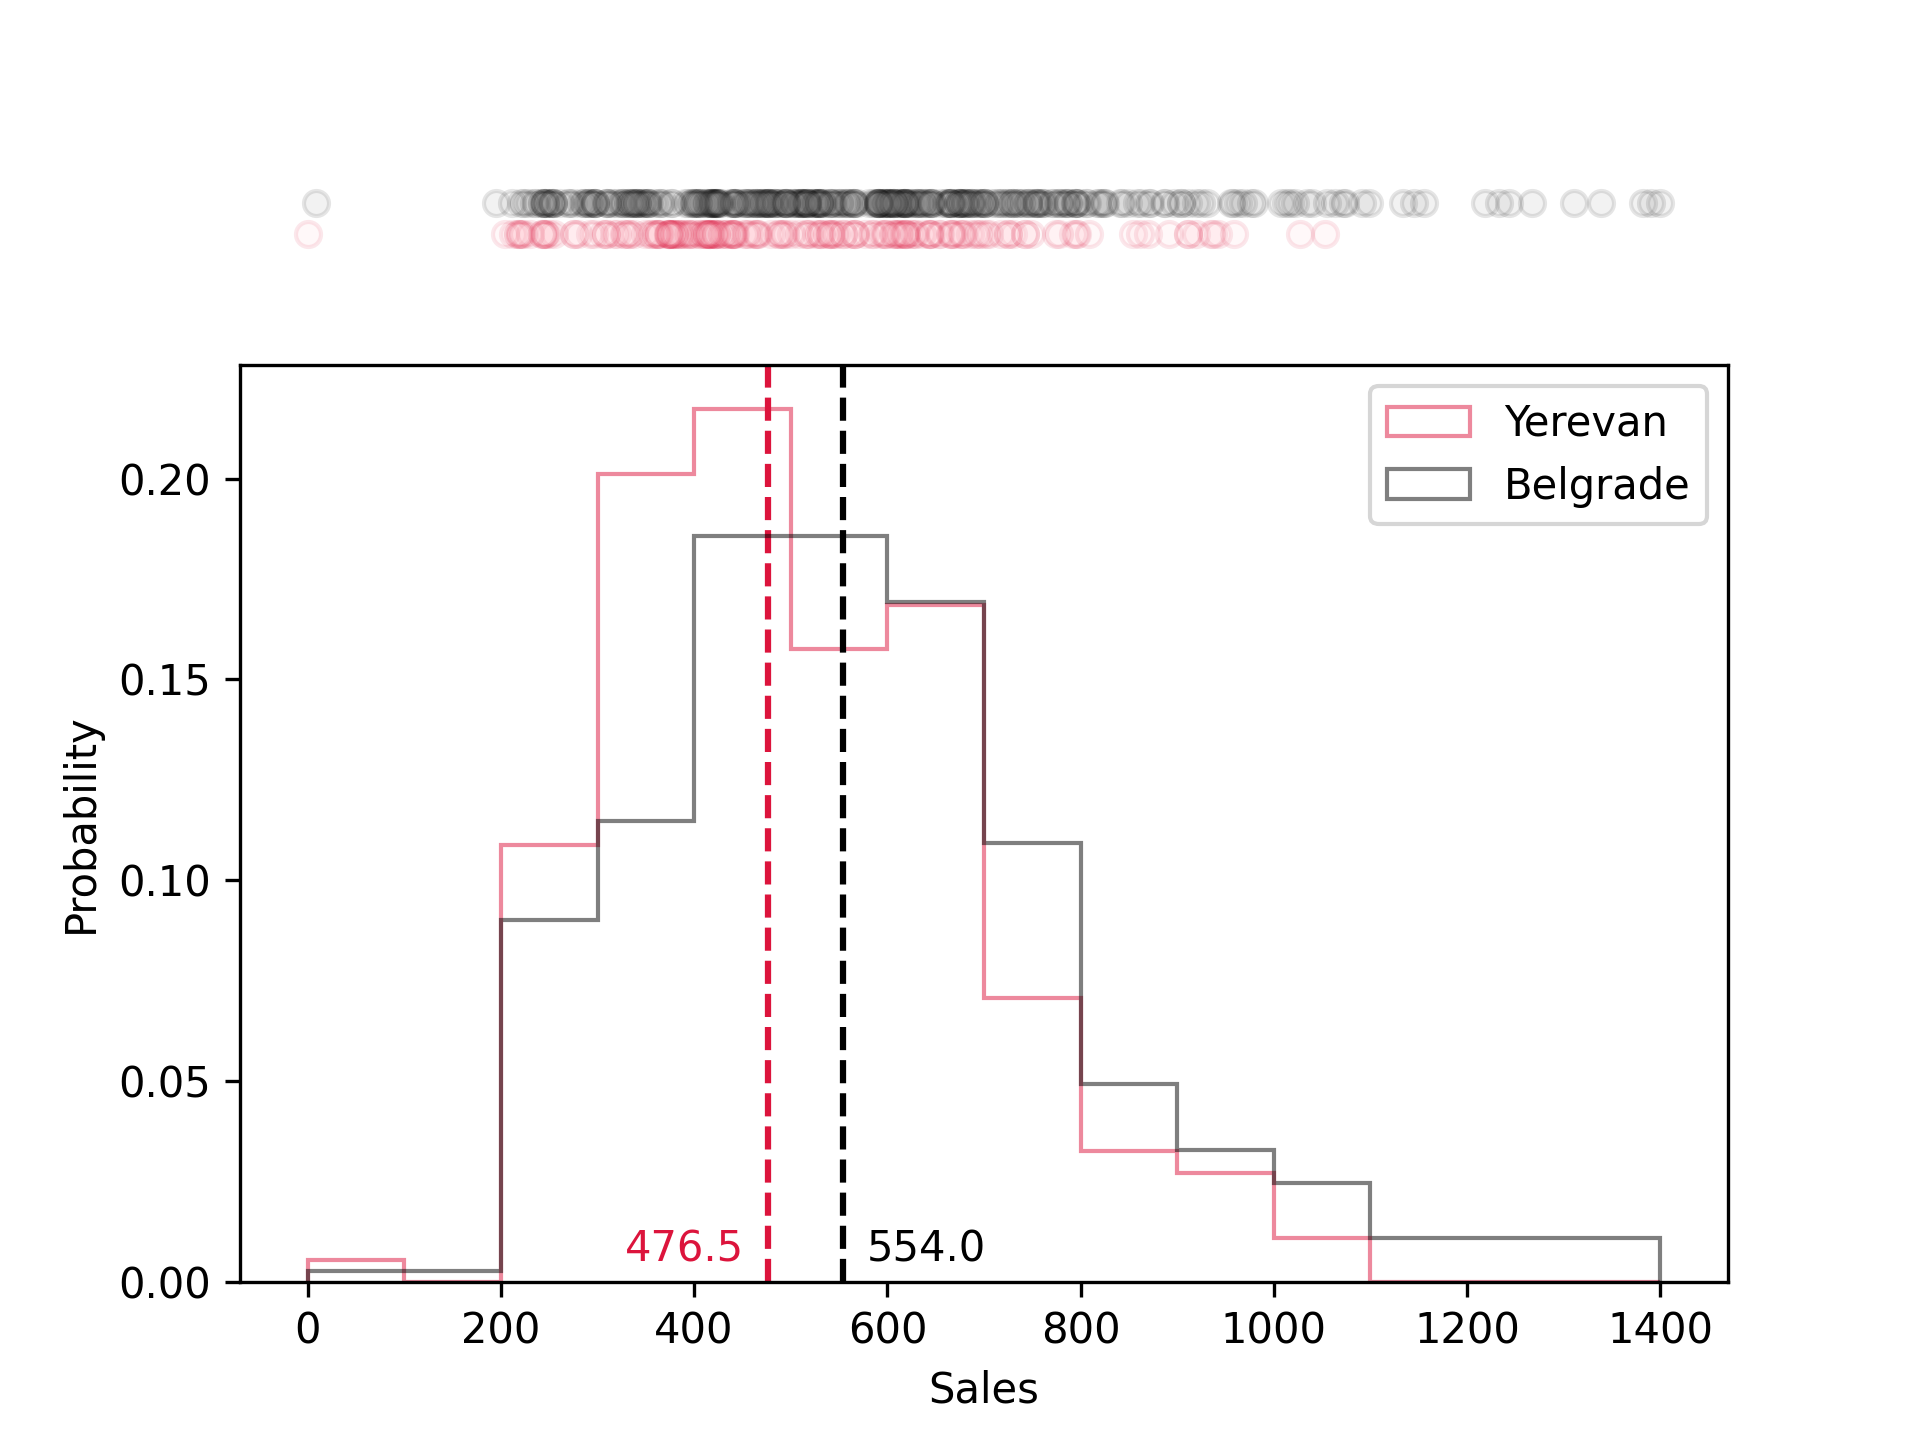
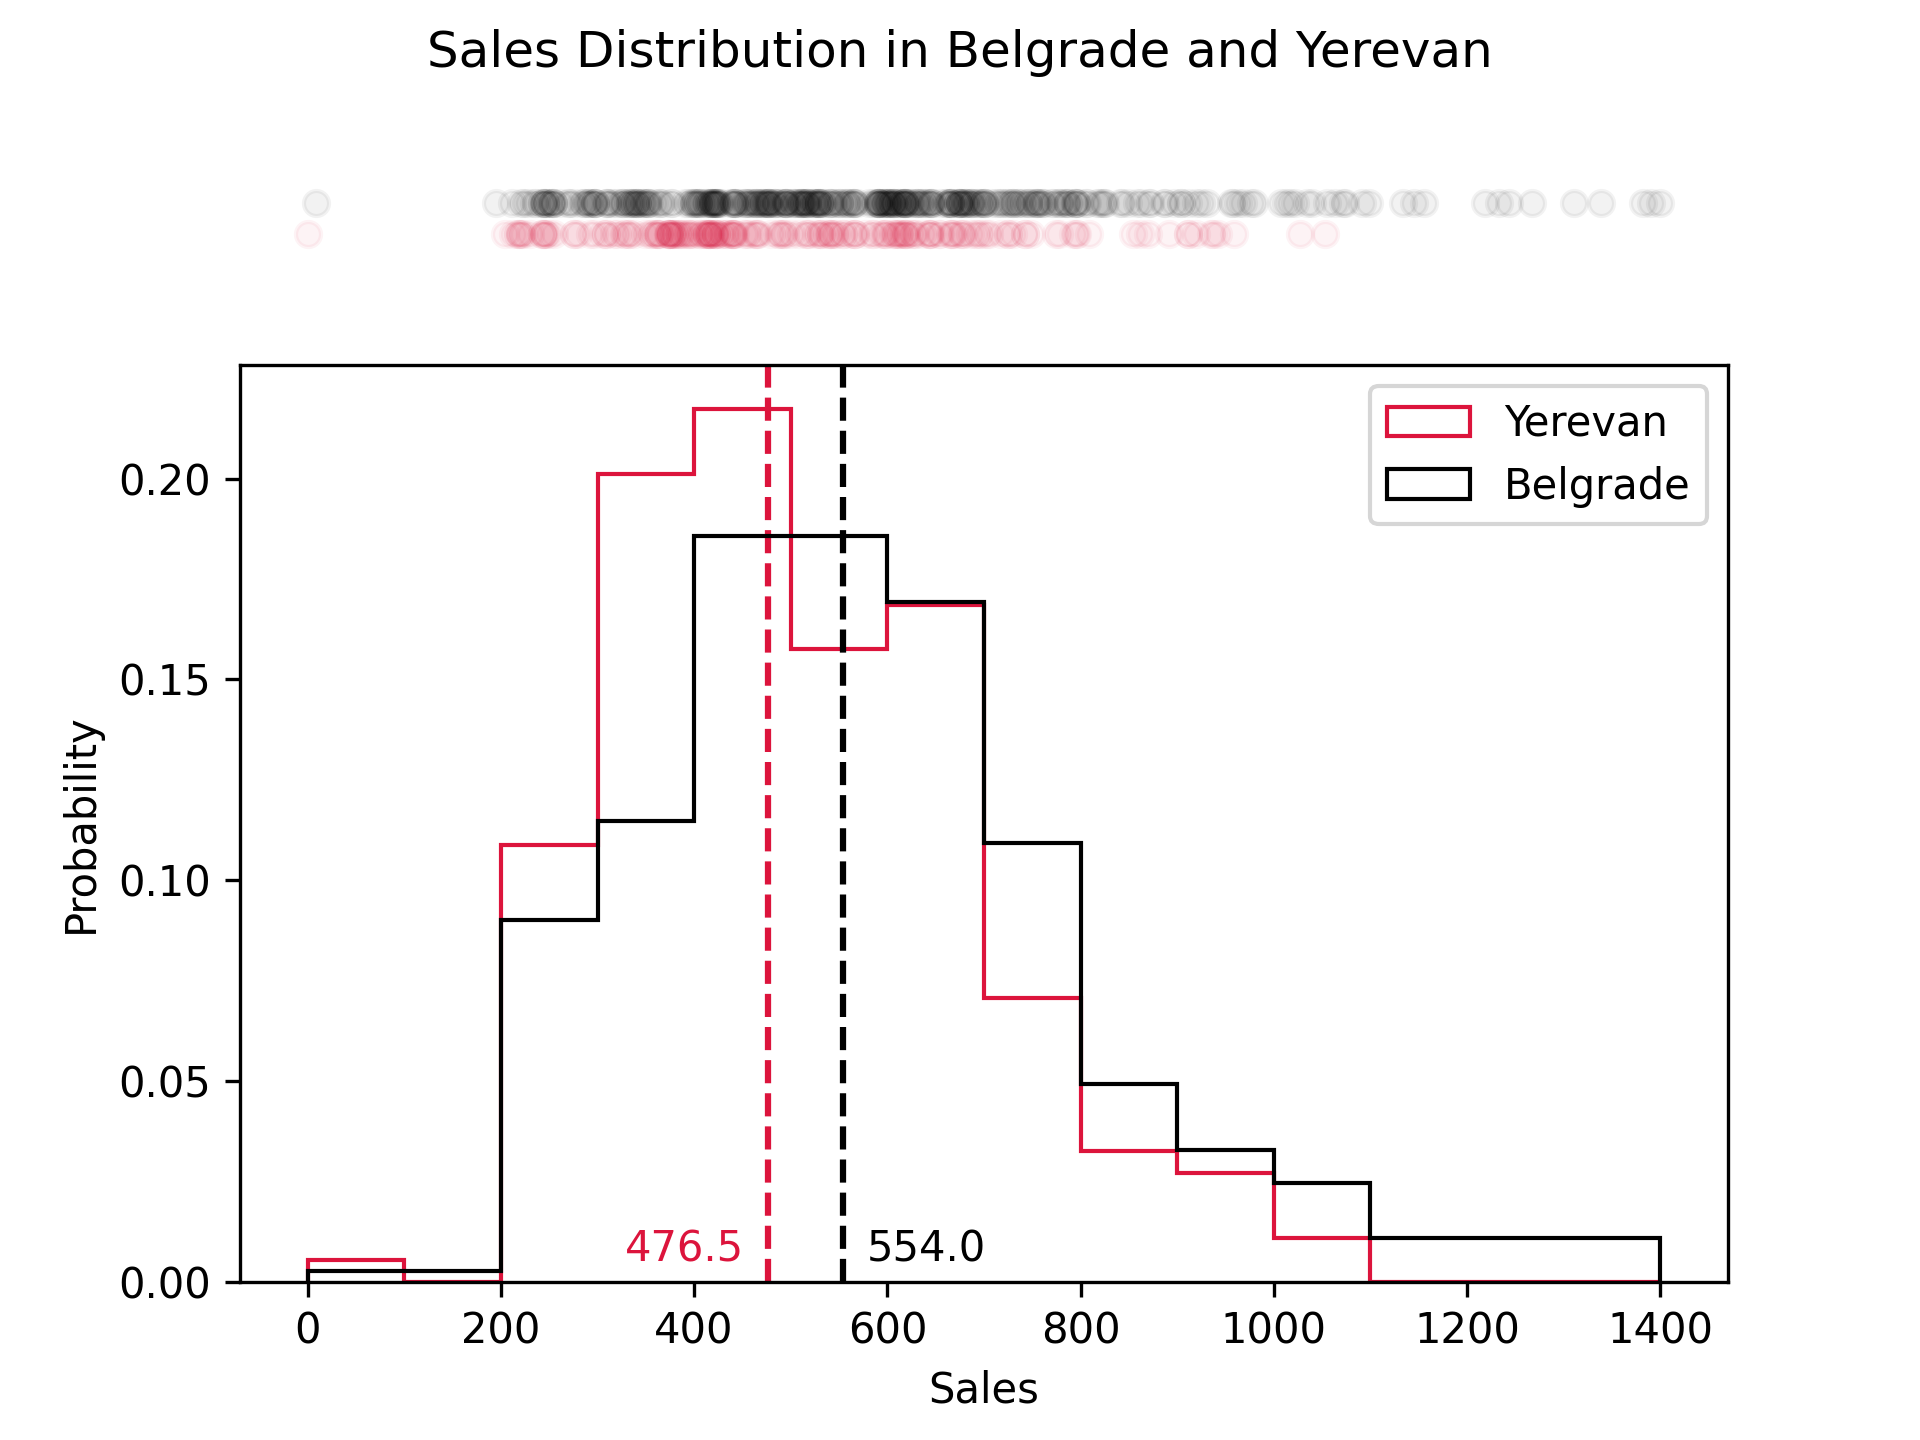
remove: unused variables fix: typing issues update: task

diff --git a/3_2_histograms_matplotlib/2_practice/2_advanced_hist/tests/test_task.py b/3_2_histograms_matplotlib/2_practice/2_advanced_hist/tests/test_task.py
@@ -36,7 +36,7 @@ class PlotTestCase(
 ):
     data: ClassVar[pd.DataFrame]
     fig: ClassVar[plt.Figure]
-    bins: ClassVar[np.ndarray]
+    bins: ClassVar[list]
 
     @classmethod
     def setUpClass(cls):
@@ -47,10 +47,6 @@ class PlotTestCase(
         cls.cities = ["Yerevan", "Belgrade"]
         cls.bins = get_bins(data)
         cls.color_map = {
-            "Yerevan": "pink",
-            "Belgrade": "grey",
-        }
-        cls.edge_color_map = {
             "Yerevan": "crimson",
             "Belgrade": "black",
         }
@@ -104,7 +100,7 @@ class PlotTestCase(
 
     def test_2_2_scatter_transparency(self):
         for collection_number in range(len(self.cities)):
-            self.checkCollectionTransparency(self.fig.axes[0], expected_alpha=0.1, collection_number=collection_number)
+            self.checkCollectionTransparency(self.fig.axes[0], expected_alpha=0.05, collection_number=collection_number)
 
     def test_2_3_scatter_spines(self):
         self.checkSpineVisibility(self.fig.axes[0], position="top", expected_visibility=False)
@@ -131,7 +127,7 @@ class PlotTestCase(
         for patch_number in range(len(self.cities)):
             self.checkBarBins(
                 self.fig.axes[1],
-                expected_bins=self.bins.tolist(),
+                expected_bins=self.bins,
                 container_number=patch_number,
                 histtype="step",
             )
@@ -152,14 +148,10 @@ class PlotTestCase(
         for patch_number in range(len(self.cities)):
             self.checkBarTransparency(
                 self.fig.axes[1],
-                expected_alpha=0.5,
+                expected_alpha=1,
                 container_number=patch_number,
                 histtype="step",
             )
-
-    def test_3_4_bar_legend(self):
-        self.checkLegendExists(self.fig.axes[1])
-        self.checkLegendLabels(self.fig.axes[1], expected_labels=self.cities)
 
     def test_4_1_lines_coordinate(self):
         for line_number, city in enumerate(self.cities):
@@ -182,7 +174,7 @@ class PlotTestCase(
 
     def test_4_4_lines_colors(self):
         for line_number, city in enumerate(self.cities):
-            self.checkLineColor(self.fig.axes[1], expected_color=self.edge_color_map[city], line_number=line_number)
+            self.checkLineColor(self.fig.axes[1], expected_color=self.color_map[city], line_number=line_number)
 
     def test_5_1_text_objects_number(self):
         self.checkNumberOfTextObjects(self.fig.axes[1], expected_number=2)
@@ -202,7 +194,7 @@ class PlotTestCase(
         for text_number, city in enumerate(self.cities):
             self.checkTextObjectColor(
                 self.fig.axes[1],
-                expected_color=self.edge_color_map[city],
+                expected_color=self.color_map[city],
                 text_number=text_number,
             )
 
@@ -214,7 +206,7 @@ class PlotTestCase(
                 text_number=text_number,
             )
 
-    def test_6_1_bar_colors(self):
+    def test_6_bar_colors(self):
         for patch_number, city in enumerate(self.cities):
             self.checkBarColor(
                 self.fig.axes[1],
@@ -223,15 +215,13 @@ class PlotTestCase(
                 histtype="step",
             )
 
-    def test_6_2_bar_edge_colors(self):
-        for patch_number, city in enumerate(self.cities):
-            self.checkHistEdgeColor(
-                self.fig.axes[1],
-                expected_edgecolors=self.edge_color_map[city],
-                container_number=patch_number,
-                histtype="step",
-            )
-
     def test_7_labels(self):
         self.checkLabel(self.fig.axes[1], expected_label="Sales", axis="x")
         self.checkLabel(self.fig.axes[1], expected_label="Probability", axis="y")
+
+    def test_8_title(self):
+        self.checkSupTitle(self.fig, expected_suptitle="Sales Distribution in Belgrade and Yerevan")
+
+    def test_9_bar_legend(self):
+        self.checkLegendExists(self.fig.axes[1])
+        self.checkLegendLabels(self.fig.axes[1], expected_labels=self.cities)

diff --git a/3_2_histograms_matplotlib/2_practice/2_advanced_hist/task.py b/3_2_histograms_matplotlib/2_practice/2_advanced_hist/task.py
@@ -8,11 +8,6 @@ def plot(sales: pd.DataFrame) -> plt.Figure:
     fig, (ax_ind, ax_hist) = plt.subplots(2, 1, height_ratios=[1, 10])
 
     color_map = {
-        "Yerevan": "pink",
-        "Belgrade": "grey",
-    }
-
-    edge_color_map = {
         "Yerevan": "crimson",
         "Belgrade": "black",
     }
@@ -32,12 +27,10 @@ def plot(sales: pd.DataFrame) -> plt.Figure:
 
         ax_hist.hist(
             x=city_sales,
-            alpha=0.5,
             weights=get_weights(city_sales),
             label=city,
             bins=get_bins(sales),
             color=color_map[city],
-            edgecolor=edge_color_map[city],
             histtype="step",
         )
 
@@ -46,7 +39,7 @@ def plot(sales: pd.DataFrame) -> plt.Figure:
             linestyle="dashed",
             linewidth=1.5,
             label="Median",
-            color=edge_color_map[city],
+            color=color_map[city],
         )
 
         ax_hist.text(
@@ -54,21 +47,18 @@ def plot(sales: pd.DataFrame) -> plt.Figure:
             0.005,
             get_median(city_sales),
             horizontalalignment=position_map[city],
-            color=edge_color_map[city],
+            color=color_map[city],
         )
 
         ax_ind.scatter(
             city_sales,
             get_y_coordinates(city_sales, city),
-            alpha=0.1,
-            label=f"{city} Observations",
+            alpha=0.05,
             color=color_map[city],
-            edgecolors=edge_color_map[city],
         )
 
     ax_hist.set_ylabel("Probability")
     ax_hist.set_xlabel("Sales")
-    ax_hist.legend()
 
     handles, labels = ax_hist.get_legend_handles_labels()
     filtered_handles = [handle for handle, label in zip(handles, labels) if label != "Median"]
@@ -80,6 +70,8 @@ def plot(sales: pd.DataFrame) -> plt.Figure:
     ax_ind.spines[["top", "bottom", "left", "right"]].set_visible(False)
     ax_ind.set_xticks([])
     ax_ind.set_yticks([])
+
+    fig.suptitle("Sales Distribution in Belgrade and Yerevan")
 
     return fig
 

diff --git a/3_2_histograms_matplotlib/2_practice/2_advanced_hist/task.md b/3_2_histograms_matplotlib/2_practice/2_advanced_hist/task.md
@@ -10,14 +10,14 @@ First, let's add a one-dimensional scatter plot above the existing one:
 
 1. Create two `ax` objects using the [
    `plt.subplots`](https://matplotlib.org/stable/api/_as_gen/matplotlib.pyplot.subplots.html) function instead of a
-   single one. Set `height_ratios=[1, 10]`.
+   single one. Set `height_ratios` to `[1, 10]`.
 2. Plot the data points with the [
    `scatter`](https://matplotlib.org/stable/api/_as_gen/matplotlib.axes.Axes.scatter.html#matplotlib.axes.Axes.scatter)
    method on the corresponding `ax` object.
-3. Since it is a one-dimensional plot, `y` coordinate should be the same for all points in the same city.
-    - Let `y` coordinate for Belgrade sales distribution be `0.2`, and `0.1` for Yerevan distribution.
-4. Use the same colors as in the histograms for each city.
-5. Set `alpha` parameter to `0.1`.
+3. Since it is a one-dimensional plot, `y` coordinate should be the same for all points in the same city: let `y`
+   coordinate for Belgrade sales distribution be `0.2`, and `0.1` for Yerevan distribution.
+4. Yerevan data should be colored `crimson` and Belgrade data should be colored `black`.
+5. Set `alpha` parameter to `0.05`.
 6. Limit `y` axis range from `0` to `0.3` by calling the [
    `set_ylim`](https://matplotlib.org/stable/api/_as_gen/matplotlib.axes.Axes.set_ylim.html) method.
 7. Remove both `x` and `y` ticks.
@@ -26,22 +26,21 @@ First, let's add a one-dimensional scatter plot above the existing one:
 You can use the hidden `get_y_coordinates` function, accepting the city sales and the city name to generate `y`
 coordinates for the scatter plot.
 
-Second, let's change the main histograms axes. We will add an edge color for histograms, and add vertical lines with
+Second, let's change the main histograms axes. We will change colors, and add vertical lines with
 text labels indicating the median sales value for each city:
 
-1. Add the following edge colors:
-    - Belgrade: `crimson`.
-    - Yerevan: `black`.
+1. Use the same colors as in the scatter plot for each city.
 2. Draw a vertical line at each median using [
-   `axvline`](https://matplotlib.org/stable/api/_as_gen/matplotlib.axes.Axes.axvline.html) method, on the
+   `axvline`](https://matplotlib.org/stable/api/_as_gen/matplotlib.axes.Axes.axvline.html) method on the
    corresponding axes.
-3. Make the line dashed, set its width to `1.5`, and match its color to the histogram’s edge color.
+3. Make the line dashed, set its width to `1.5`, and match its color to the histogram’s color.
 4. Use the [
    `text`](https://matplotlib.org/stable/api/_as_gen/matplotlib.axes.Axes.text.html) method to add median value near the
    line:
-    - Belgrade: `x = median_belgrade + 25`, `y = 0.005`, horizontal alignment `left`.
-    - Yerevan: `x = median_yerevan - 25`, `y = 0.005`, horizontal alignment `right`.
+    - For Belgrade sales: set `x`  to their median sales _plus_ `25`, `y` to `0.005`, and the horizontal alignment to `left`.
+    - For Yerevan sales: set `x`  to their median sales _minus_ `25`, `y` to `0.005`, and the horizontal alignment to `right`.
 5. Do not include medians in the legend.
+6. Remove the axes title and add a super title to the figure.
 
 You can use the hidden `get_median` function, accepting the city sales to calculate the median sales for each city.
 
@@ -86,12 +85,18 @@ Note that these changes will not be tested and might break existing tests.
 </div>
 
 <div class="hint" title="How to hide all spines of a plot?">
-    Call <code>ax_ind.spines[["top", "bottom", "left", "right"]].set_visible(False)</code> one the corresponding <code>ax</code> object.
+    Call <code>ax_ind.spines[["top", "bottom", "left", "right"]].set_visible(False)</code> on the corresponding <code>ax</code> object.
 </div>
 
 <div class="hint" title="How to find the median of an array?">
     Use the <a href="https://pandas.pydata.org/docs/reference/api/pandas.Series.median.html"><code>median()</code></a> 
     method of Series.
+</div>
+
+<div class="hint" title="How to customize a vertical line?">
+    You can change the line appearance when using the <code>axvline</code> method by setting these three parameters: use
+    <code>linestyle</code> to define line style, <code>width</code> to configure its thickness, and <code>color</code> 
+    to assign its color.
 </div>
 
 <div class="hint" title="How to set an edge color for a histogram?">
@@ -105,4 +110,11 @@ Note that these changes will not be tested and might break existing tests.
     <code>get_legend_handles_labels</code></a> on the corresponding axes. 
     Then, to exclude some elements from the legend you can pass filtered lists of handles and labels to the <code>legend</code> method:
     <code>ax.legend(handles_filtered, labels_filtered)</code>.
+</div>
+
+<div class="hint" title="How to add a super title to the figure?">
+    You can call 
+    <a href="https://matplotlib.org/stable/api/_as_gen/matplotlib.figure.Figure.suptitle.html#matplotlib.figure.Figure.suptitle">
+    <code>suptitle()</code></a> method on the figure object:
+    <code>fig.suptitle("Title")</code>.
 </div>
